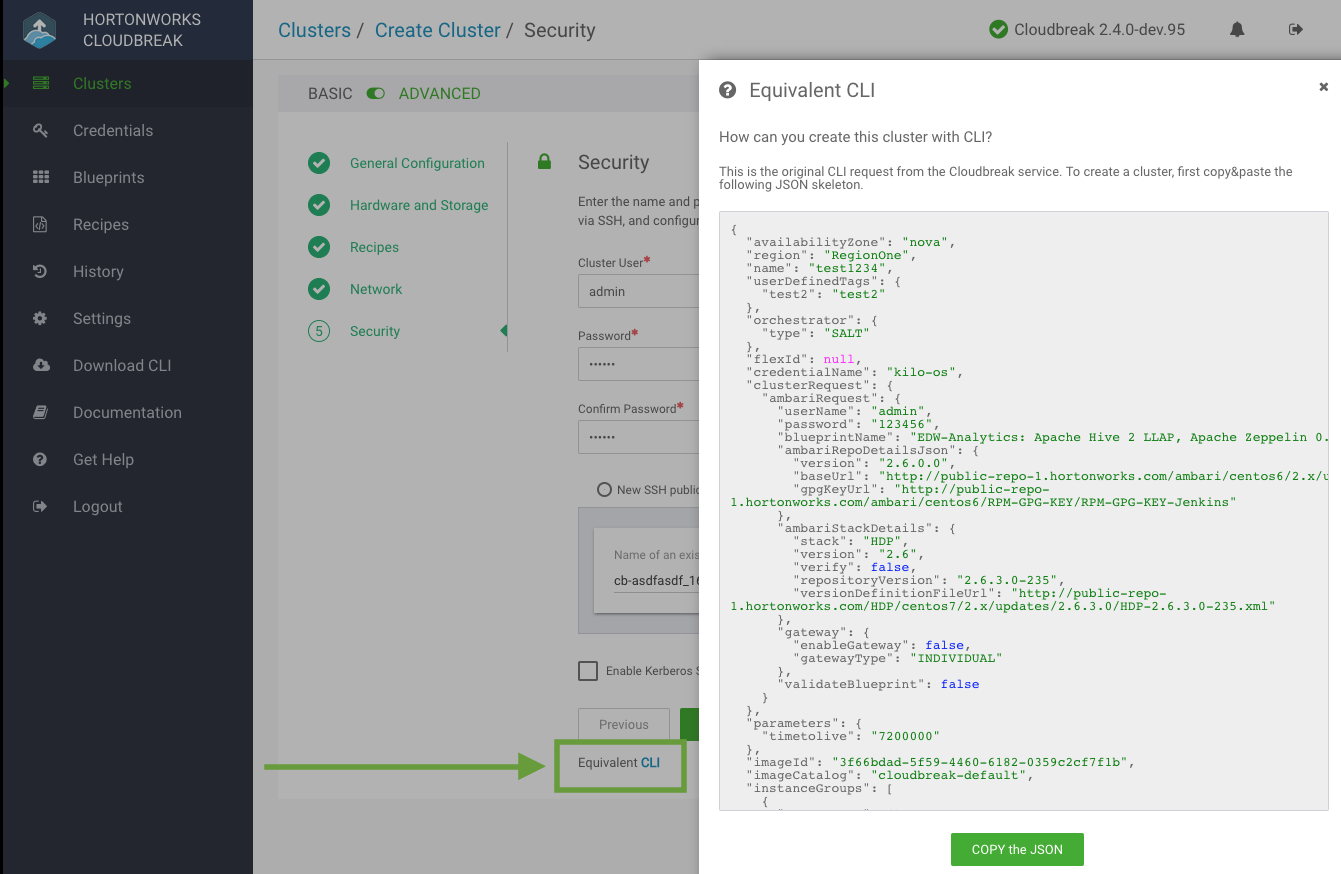
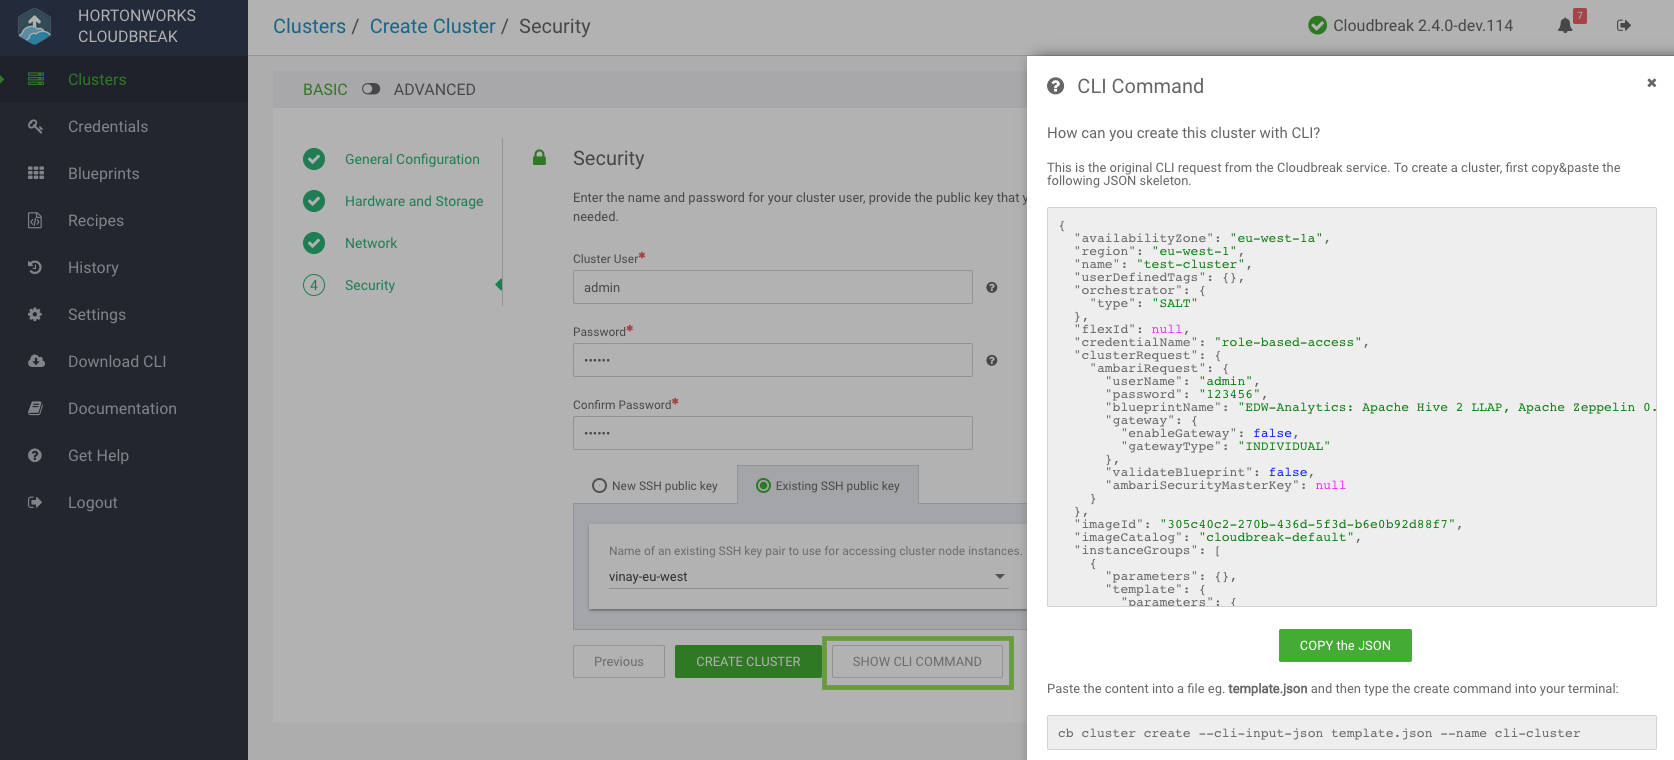
Update CLI screenshots

diff --git a/docs/cli-get-started.md b/docs/cli-get-started.md
@@ -27,7 +27,7 @@ The simplest way to obtain a valid JSON template for your cluster is to get it f
 
 **From Create Cluster**
 
-Once you've provided all the cluster parameters, on the last page of the create cluster wizard, click **Equivalent CLI** to obtain the JSON template:
+Once you've provided all the cluster parameters, on the last page of the create cluster wizard, click **Show CLI Command** to obtain the JSON template:
 
 <a href="../images/cli-json-create-cluster2.png" target="_blank" title="click to enlarge"><img src="../images/cli-json-create-cluster2.png" width="650" title="Cloudbreak web UI"></a>    
 
@@ -36,7 +36,7 @@ Click **Copy the JSON** to copy the content and then use a text editor to edit a
 
 **From Cluster Details**
 
-You can obtain the JSON template for a cluster from the cluster details page by selecting **Actions** > **Equivalent CLI**. This option is available for all clusters that have been initiated, so the cluster does not need to be in the running state to obtain this information. In fact, this option is useful when troubleshooting cluster failures.  
+You can obtain the JSON template for a cluster from the cluster details page by selecting **Actions** > **Show CLI Command**. This option is available for all clusters that have been initiated, so the cluster does not need to be in the running state to obtain this information. In fact, this option is useful when troubleshooting cluster failures.  
 
 <a href="../images/cli-json-details1.png" target="_blank" title="click to enlarge"><img src="../images/cli-json-details1.png" width="650" title="Cloudbreak web UI"></a>   
 
